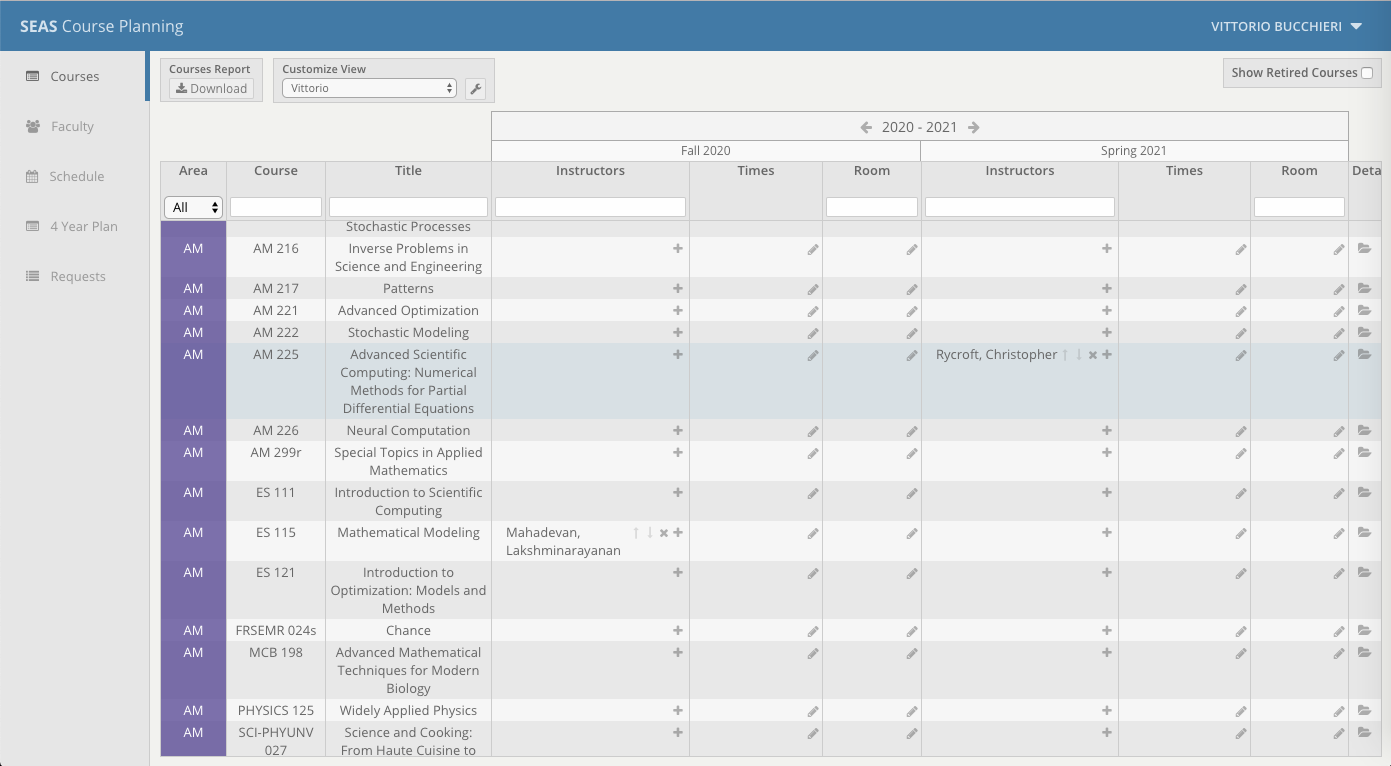
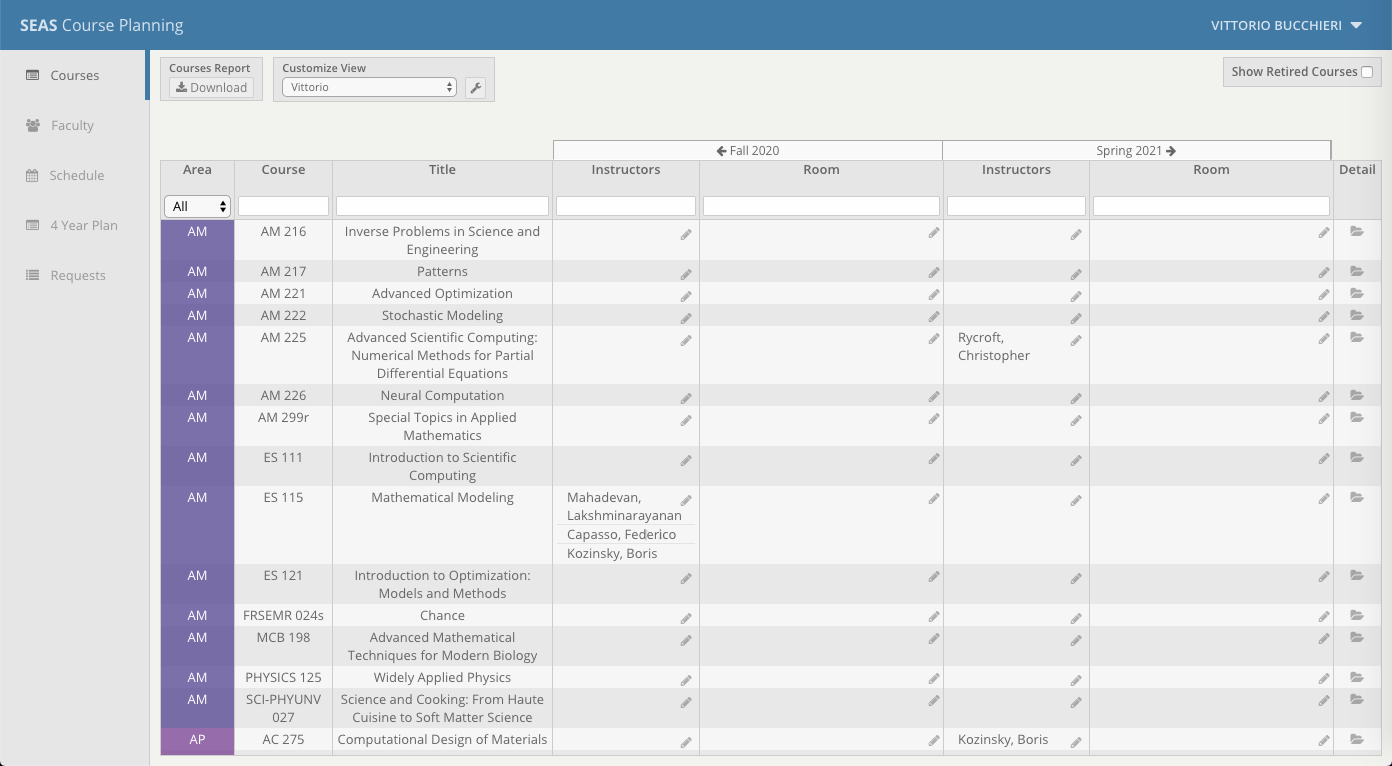
Add files via upload
Kanban 54 - Interim progress - https://github.com/seas-computing/course-planner/projects/1#card-27666362
Proposed UI code

diff --git a/kanban_54/index.html b/kanban_54/index.html
@@ -1,8 +1,8 @@
-<!-- Current UI code from https://planning.seas.harvard.edu/courses/app/#/courses -->
+<!-- Proposed UI code from https://planning.seas.harvard.edu/courses/app/#/courses -->
 
-<!-- Table headers -->
+<!-- Deleting Times column header from table headers. Changing column width percentage. -->
 <div class="row">
-    <div class="cell col_area" ng-style="courseColumns.getColumnStyle('area');" style="width: 5.405%;">
+    <div class="cell col_area" ng-style="courseColumns.getColumnStyle('area');" style="width: 6%;">
         <div class="label">Area</div>
         <div class="filter"><select ng-model="filterCourses.data.area" ng-options="a for a in allCourseAreas"
                 class="ng-pristine ng-untouched ng-valid">
@@ -21,14 +21,14 @@
                 <option value="string:SEM" label="SEM">SEM</option>
             </select></div>
     </div>
-    <div class="cell col_courseNumber" ng-style="courseColumns.getColumnStyle('courseNumber');" style="width: 8.108%;">
+    <div class="cell col_courseNumber" ng-style="courseColumns.getColumnStyle('courseNumber');" style="width: 8%;">
         <div class="label">Course</div>
         <div class="filter">
             <div class="filterInput"><input type="text" ng-model="filterCourses.data.courseNumber"
                     class="ng-pristine ng-untouched ng-valid"></div>
         </div>
     </div>
-    <div class="cell col_title" ng-style="courseColumns.getColumnStyle('title');" style="width: 13.514%;">
+    <div class="cell col_title" ng-style="courseColumns.getColumnStyle('title');" style="width: 18%;">
         <div class="label">Title</div>
         <div class="filter">
             <div class="filterInput"><input type="text" ng-model="filterCourses.data.title"
@@ -72,7 +72,7 @@
             </select></div>
     </div>
     <div class="cell col_instructors ng-scope" ng-style="courseColumns.getColumnStyle('semester.instructors');"
-        style="width: 16.216%;">
+        style="width: 12%;">
         <div class="label">Instructors</div>
         <div class="filter">
             <div class="filterInput leftAlign"><input type="text" ng-model="filterCourses.data['instructors'+term]"
@@ -80,7 +80,7 @@
         </div>
     </div>
     <div class="cell col_room ng-scope" ng-style="courseColumns.getColumnStyle('semester.room');"
-        style="width: 8.108%;">
+        style="width: 20%;">
         <div class="label">Room</div>
         <div class="filter">
             <div class="filterInput leftAlign"><input type="text" ng-model="filterCourses.data['room'+term]"
@@ -109,20 +109,20 @@
             </select></div>
     </div>
     <div class="cell col_instructors ng-scope" ng-style="courseColumns.getColumnStyle('semester.instructors');"
-        style="width: 16.216%;">
+        style="width: 12%;">
         <div class="label">Instructors</div>
         <div class="filter">
             <div class="filterInput leftAlign"><input type="text" ng-model="filterCourses.data['instructors'+term]"
                     class="ng-pristine ng-untouched ng-valid"></div>
         </div>
     </div>
-    <div class="cell col_times ng-scope" ng-style="courseColumns.getColumnStyle('semester.times');"
-        style="width: 10.811%;">
-        <div class="label">Times</div>
-        <div class="filter"></div>
-    </div>
+<!-- Deleting Times column header from table headers-->
+
+
+
+
     <div class="cell col_room ng-scope" ng-style="courseColumns.getColumnStyle('semester.room');"
-        style="width: 8.108%;">
+        style="width: 20%;">
         <div class="label">Room</div>
         <div class="filter">
             <div class="filterInput leftAlign"><input type="text" ng-model="filterCourses.data['room'+term]"
@@ -142,19 +142,19 @@
         style="width: 0%; display: none;">
         <div class="label">Notes</div>
     </div>
-    <div class="cell col_detail" ng-style="courseColumns.getColumnStyle('detail');" style="width: 2.703%;">
+    <div class="cell col_detail" ng-style="courseColumns.getColumnStyle('detail');" style="width: 4%;">
         <div class="label">Detail</div>
     </div>
 </div>
 
-<!-- AM ES 115 row -->
+<!-- Removing Times cell from AM ES 115 row and changing column width percentage. -->
 <div class="row ng-scope" ng-repeat="c in courses | filter: filterCourses.filter">
     <div class="cell col_area ng-binding" ng-bind="c.area" ng-style="courseColumns.getColumnStyle('area');"
-        style="background: rgba(66, 66, 138, 0.7); width: 5.405%;">AM</div>
+        style="background: rgba(66, 66, 138, 0.7); width: 6%;">AM</div>
     <div class="cell col_courseNumber ng-binding" ng-bind="c.courseNumber"
-        ng-style="courseColumns.getColumnStyle('courseNumber');" style="width: 8.108%;">ES 115</div>
+        ng-style="courseColumns.getColumnStyle('courseNumber');" style="width: 8%;">ES 115</div>
     <div class="cell col_title ng-binding" ng-bind="c.title" ng-style="courseColumns.getColumnStyle('title');"
-        style="width: 13.514%;">Mathematical Modeling</div>
+        style="width: 18%;">Mathematical Modeling</div>
     <div class="cell col_sameAs" ng-style="courseColumns.getColumnStyle('sameAs');" style="width: 0%; display: none;">
         <!-- ngRepeat: s in c.sameAs | orderBy: ['courseNumber'] -->
         <div ng-repeat="s in c.sameAs | orderBy: ['courseNumber']" ng-bind="s.courseNumber" class="ng-binding ng-scope">
@@ -175,38 +175,41 @@
         <!-- ngIf: offeredState.expanded -->
     </div>
     <div class="cell col_instructors ng-scope" ng-class="{retire:c.isRetiredDuringSemester(editYear.selected, term)}"
-        ng-style="courseColumns.getColumnStyle('semester.instructors');" style="width: 16.216%;">
+        ng-style="courseColumns.getColumnStyle('semester.instructors');" style="width: 12%;">
         <!-- ngIf: !c.isRetiredDuringSemester(editYear.selected, term); -->
         <ul ng-if="!c.isRetiredDuringSemester(editYear.selected, term);" class="ng-scope">
             <!-- ngIf: getInstructors(c, term).length === 0 && isEditable.instructors(c, term); -->
             <!-- ngRepeat: i in getInstructors(c, term) -->
             <li ng-repeat="i in getInstructors(c, term)" class="ng-binding ng-scope">Mahadevan, Lakshminarayanan
                 <!-- ngIf: isEditable.instructors(c, term); -->
+
+<!-- Replacing arrows and add buttons with edit button -->
                 <div class="actions ng-scope" ng-if="isEditable.instructors(c, term);">
-                    <div class="orderUp disabled" title="Move instructor up." ng-class="{'disabled':$first}"
-                        ng-click="changeInstructorOrder($first, c, term, i, -1);"></div>
-                    <div class="orderDown disabled" title="Move instructor down." ng-class="{'disabled':$last}"
-                        ng-click="changeInstructorOrder($last, c, term, i, 1);"></div>
-                    <div class="remove" title="Remove instructor." ng-click="removeInstructor(c, term, i);"></div>
-                    <!-- ngIf: $last -->
-                    <div class="add ng-scope" title="Add new instructor." ng-if="$last"
-                        ng-click="instructorSearch.show(c._id, term);"></div><!-- end ngIf: $last -->
+                    <div class="actions singleAction">
+                        <div class="editRoomButton" title="Add new instructor." ng-click="instructorSearch.show(c._id, term);"></div>
+                    </div>
                 </div><!-- end ngIf: isEditable.instructors(c, term); -->
             </li><!-- end ngRepeat: i in getInstructors(c, term) -->
+            <li ng-repeat="i in getInstructors(c, term)" class="ng-binding ng-scope">Capasso, Federico
+                    <!-- ngIf: isEditable.instructors(c, term); -->
+                </li>
+            <li ng-repeat="i in getInstructors(c, term)" class="ng-binding ng-scope">Kozinsky, Boris
+                    <!-- ngIf: isEditable.instructors(c, term); -->
+                </li>
         </ul><!-- end ngIf: !c.isRetiredDuringSemester(editYear.selected, term); -->
         <!-- ngIf: instructorSearch.isVisibleFor(c._id, term); -->
     </div>
-    <div class="cell col_times ng-binding ng-scope"
-        ng-class="{retire:c.isRetiredDuringSemester(editYear.selected, term)}"
-        ng-style="courseColumns.getColumnStyle('semester.times');" style="width: 10.811%;">
-        <!-- ngIf: isEditable.times(c, term); -->
-        <div class="editTimesButton ng-scope" ng-if="isEditable.times(c, term);" ng-click="editTimes.show(c, term);">
-        </div><!-- end ngIf: isEditable.times(c, term); -->
-        <!-- ngIf: editTimes.isVisibleFor(c._id, term); -->
-    </div>
+<!-- Deleting Times cells -->
+
+
+
+
+
+
+
     <div class="cell col_room ng-binding ng-scope"
         ng-class="{retire:c.isRetiredDuringSemester(editYear.selected, term)}"
-        ng-style="courseColumns.getColumnStyle('semester.room');" style="width: 8.108%;">
+        ng-style="courseColumns.getColumnStyle('semester.room');" style="width: 20%;">
         <!-- ngIf: isEditable.room(c, term); -->
         <div class="editRoomButton ng-scope" ng-if="isEditable.room(c, term);" ng-click="editRoom.show(c, term);"></div>
         <!-- end ngIf: isEditable.room(c, term); -->
@@ -235,28 +238,29 @@
         <!-- ngIf: offeredState.expanded -->
     </div>
     <div class="cell col_instructors ng-scope" ng-class="{retire:c.isRetiredDuringSemester(editYear.selected, term)}"
-        ng-style="courseColumns.getColumnStyle('semester.instructors');" style="width: 16.216%;">
+        ng-style="courseColumns.getColumnStyle('semester.instructors');" style="width: 12%;">
         <!-- ngIf: !c.isRetiredDuringSemester(editYear.selected, term); -->
         <ul ng-if="!c.isRetiredDuringSemester(editYear.selected, term);" class="ng-scope">
             <!-- ngIf: getInstructors(c, term).length === 0 && isEditable.instructors(c, term); -->
             <li ng-if="getInstructors(c, term).length === 0 &amp;&amp; isEditable.instructors(c, term);"
                 class="ng-scope">
                 <div class="actions singleAction">
-                    <div class="add" title="Add new instructor." ng-click="instructorSearch.show(c._id, term);"></div>
+<!-- Changing add icon to edit icon  --> 
+                    <div class="editRoomButton" title="Add new instructor." ng-click="instructorSearch.show(c._id, term);"></div>
                 </div>
             </li><!-- end ngIf: getInstructors(c, term).length === 0 && isEditable.instructors(c, term); -->
             <!-- ngRepeat: i in getInstructors(c, term) -->
         </ul><!-- end ngIf: !c.isRetiredDuringSemester(editYear.selected, term); -->
         <!-- ngIf: instructorSearch.isVisibleFor(c._id, term); -->
     </div>
-    <div class="cell col_times ng-binding ng-scope"
-        ng-class="{retire:c.isRetiredDuringSemester(editYear.selected, term)}"
-        ng-style="courseColumns.getColumnStyle('semester.times');" style="width: 10.811%;">
-        <!-- ngIf: isEditable.times(c, term); -->
-        <div class="editTimesButton ng-scope" ng-if="isEditable.times(c, term);" ng-click="editTimes.show(c, term);">
-        </div><!-- end ngIf: isEditable.times(c, term); -->
-        <!-- ngIf: editTimes.isVisibleFor(c._id, term); -->
-    </div>
+<!-- Deleting Times column header from table headers-->
+
+
+
+
+
+
+
     <div class="cell col_room ng-binding ng-scope"
         ng-class="{retire:c.isRetiredDuringSemester(editYear.selected, term)}"
         ng-style="courseColumns.getColumnStyle('semester.room');" style="width: 8.108%;">
@@ -282,7 +286,7 @@
         <div class="editNotesButton" ng-click="editNotes.show(c);"><i class="fa fa-sticky-note"
                 ng-class="'fa-sticky-note'+(c.notes?'':'-o')"></i></div><!-- ngIf: editNotes.isVisibleFor(c._id); -->
     </div>
-    <div class="cell col_detail" ng-style="courseColumns.getColumnStyle('detail');" style="width: 2.703%;">
+    <div class="cell col_detail" ng-style="courseColumns.getColumnStyle('detail');" style="width: 4%;">
         <div class="detailButton" ng-click="$state.go('app.features.courses.courseDetail', { id: c._id });"><i
                 class="fa fa-folder-open"></i></div>
     </div>
